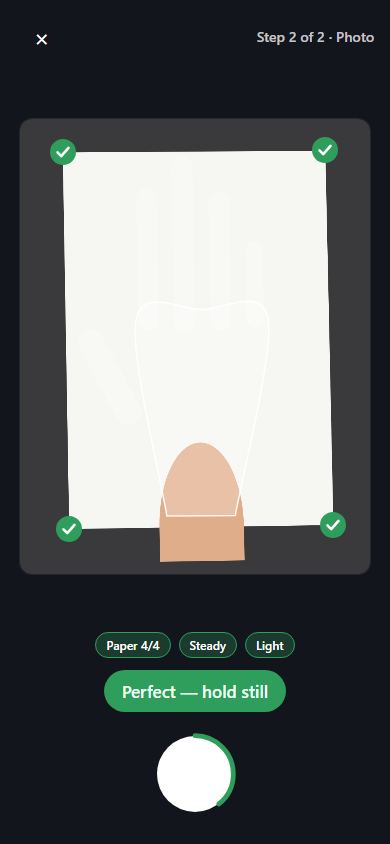
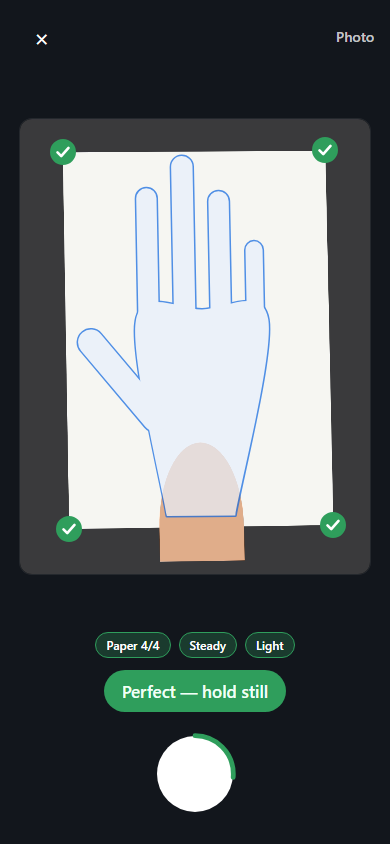
Camera: hand ghost as one accent silhouette on white paper; mode-aware step labels
The white ghost disappeared into the white paper and the palm read as a
separate trapezoid. Now every part is drawn outline-then-fill in accent
colours inside one group, so palm, fingers and thumb merge into a single
hand; widths stay SVG attributes (CSS would override per-finger widths).
The thumb base sits inside the palm so it no longer floats. In paper-edge
mode the viewfinder and review labels read 'Photo' / 'Review'.

Claude-Session: https://claude.ai/code/session_01NbhwgDQM7NVJpyrTU5XTCU

diff --git a/src/client/camera/CameraCapture.tsx b/src/client/camera/CameraCapture.tsx
@@ -797,7 +797,11 @@ export default function CameraCapture({
           >
             <span aria-hidden="true">‹</span> Camera
           </button>
-          <span className="cameraReviewStepLabel">Step 2 of 2 · Review</span>
+          <span className="cameraReviewStepLabel">
+            {calibrationMode === "paper-edge"
+              ? "Review"
+              : "Step 2 of 2 · Review"}
+          </span>
         </div>
 
         <h1 className="cameraReviewHeading">Check your photo</h1>
@@ -884,7 +888,9 @@ export default function CameraCapture({
         >
           ×
         </button>
-        <span className="cameraStepLabel">Step 2 of 2 · Photo</span>
+        <span className="cameraStepLabel">
+          {calibrationMode === "paper-edge" ? "Photo" : "Step 2 of 2 · Photo"}
+        </span>
       </div>
 
       {state.kind === "streamEnded" && (
@@ -938,29 +944,45 @@ export default function CameraCapture({
                 )}
                 {handGhost && (
                   <svg className="cameraHandGhostSvg" aria-hidden="true">
-                    <path
-                      className="cameraHandGhostPalm"
-                      d={handGhost.palmPathD}
-                    />
-                    {handGhost.fingers.map((f, i) => (
-                      <line
-                        key={i}
-                        x1={f.from.x}
-                        y1={f.from.y}
-                        x2={f.to.x}
-                        y2={f.to.y}
-                        strokeWidth={f.widthPx}
-                        className="cameraHandGhostCapsule"
+                    {/* One silhouette: every part is drawn twice — first a
+                        slightly wider outline layer, then the fill layer on
+                        top — so palm, fingers and thumb merge into a single
+                        hand shape with no inner seams. The group's opacity
+                        keeps it a hint, not a detection. */}
+                    <g className="cameraHandGhost">
+                      <path
+                        className="cameraHandGhostOutline"
+                        d={handGhost.palmPathD}
+                        strokeWidth={3}
                       />
-                    ))}
-                    <line
-                      x1={handGhost.thumb.from.x}
-                      y1={handGhost.thumb.from.y}
-                      x2={handGhost.thumb.to.x}
-                      y2={handGhost.thumb.to.y}
-                      strokeWidth={handGhost.thumb.widthPx}
-                      className="cameraHandGhostCapsule"
-                    />
+                      {[...handGhost.fingers, handGhost.thumb].map((f, i) => (
+                        <line
+                          key={i}
+                          x1={f.from.x}
+                          y1={f.from.y}
+                          x2={f.to.x}
+                          y2={f.to.y}
+                          strokeWidth={f.widthPx + 3}
+                          className="cameraHandGhostOutline"
+                        />
+                      ))}
+                      <path
+                        className="cameraHandGhostFill"
+                        d={handGhost.palmPathD}
+                        strokeWidth={0}
+                      />
+                      {[...handGhost.fingers, handGhost.thumb].map((f, i) => (
+                        <line
+                          key={i}
+                          x1={f.from.x}
+                          y1={f.from.y}
+                          x2={f.to.x}
+                          y2={f.to.y}
+                          strokeWidth={f.widthPx}
+                          className="cameraHandGhostFill"
+                        />
+                      ))}
+                    </g>
                   </svg>
                 )}
               </div>

diff --git a/src/client/camera/camera.css b/src/client/camera/camera.css
@@ -223,23 +223,25 @@
   height: 100%;
   pointer-events: none;
 }
-.cameraHandGhostPalm {
-  fill: #ffffff;
-  fill-opacity: 0.25;
-  stroke: #ffffff;
-  stroke-opacity: 0.9;
-  stroke-width: 1.5;
-  vector-effect: non-scaling-stroke;
+/* Widths come from SVG attributes (per-finger capsule widths), never CSS,
+   which would override them. Light accent fill + accent outline: the paper is white, so a white ghost
+   disappears into it. Outline #0a64e0 against the paper is 4.9:1 before the
+   group opacity; at 0.7 it still reads clearly as a line (non-text UI,
+   >= 3:1 is the bar). */
+.cameraHandGhost {
+  opacity: 0.7;
 }
-/* Each finger/thumb is one thick, round-capped `<line>` (stroke-width set
-   inline per capsule, CameraCapture.tsx) — the stroke itself IS the
-   capsule's translucent white body; a round linecap gives the
-   semicircular fingertip/base ends that read as a capsule rather than a
-   thin outline. */
-.cameraHandGhostCapsule {
-  stroke: #ffffff;
-  stroke-opacity: 0.28;
+.cameraHandGhostOutline {
+  fill: #0a64e0;
+  stroke: #0a64e0;
   stroke-linecap: round;
+  stroke-linejoin: round;
+}
+.cameraHandGhostFill {
+  fill: #e7f0fd;
+  stroke: #e7f0fd;
+  stroke-linecap: round;
+  stroke-linejoin: round;
 }
 
 .cameraFlash {

diff --git a/src/client/camera/handGhost.ts b/src/client/camera/handGhost.ts
@@ -51,7 +51,9 @@ const RIGHT_HAND_UNIT_POINTS: Record<keyof HandSilhouetteLandmarks, UnitPoint> =
     ringTip: { u: 0.65, v: 0.1 },
     pinkyMcp: { u: 0.87, v: 0.44 },
     pinkyTip: { u: 0.87, v: 0.24 },
-    thumbBase: { u: 0.05, v: 0.7 },
+    // Inside the palm outline (which narrows toward the wrist), so the thumb
+    // capsule grows out of the palm instead of floating beside it.
+    thumbBase: { u: 0.22, v: 0.72 },
     thumbTip: { u: -0.18, v: 0.5 },
   };
 
